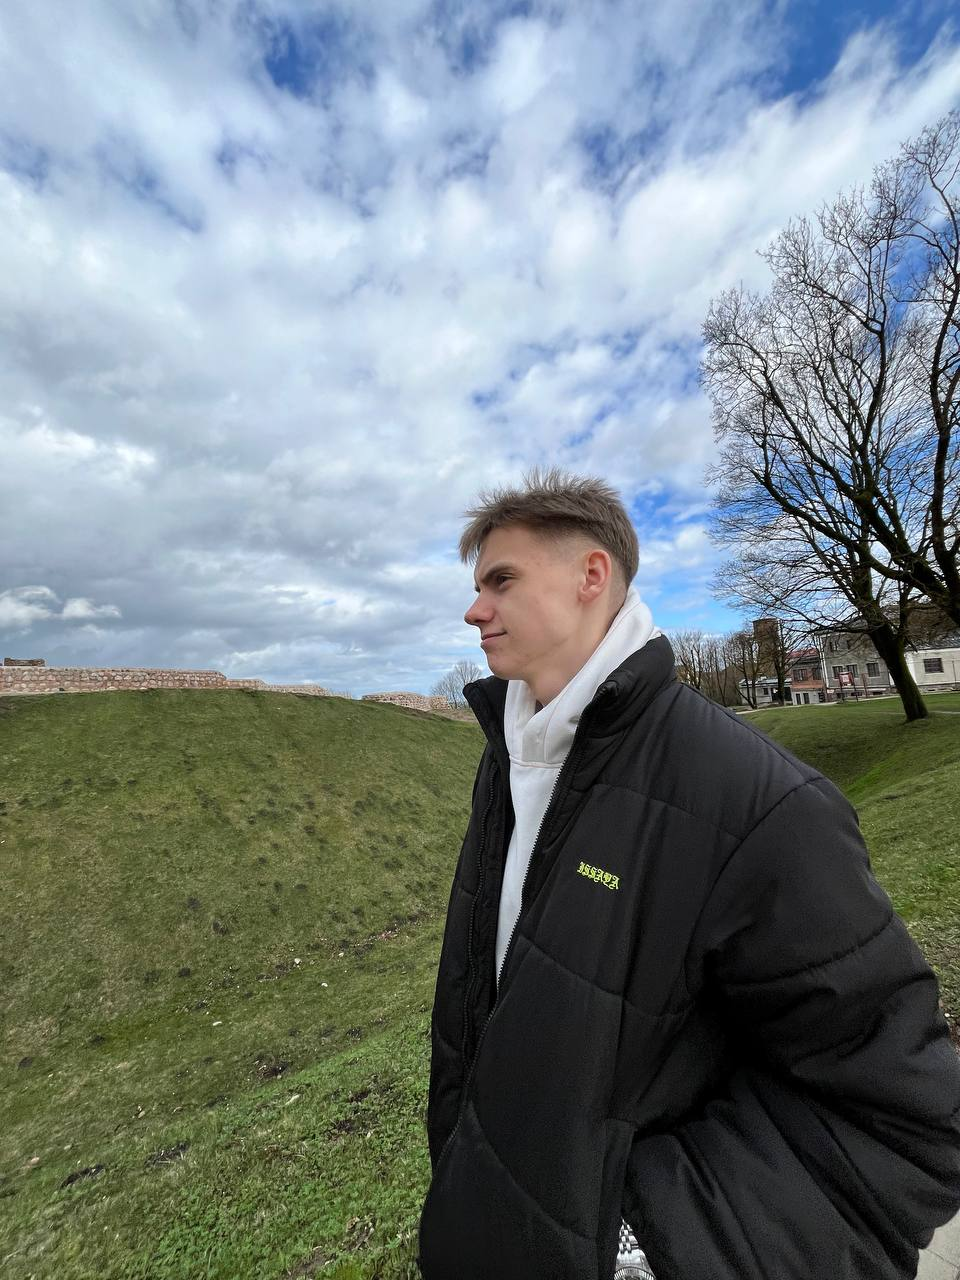
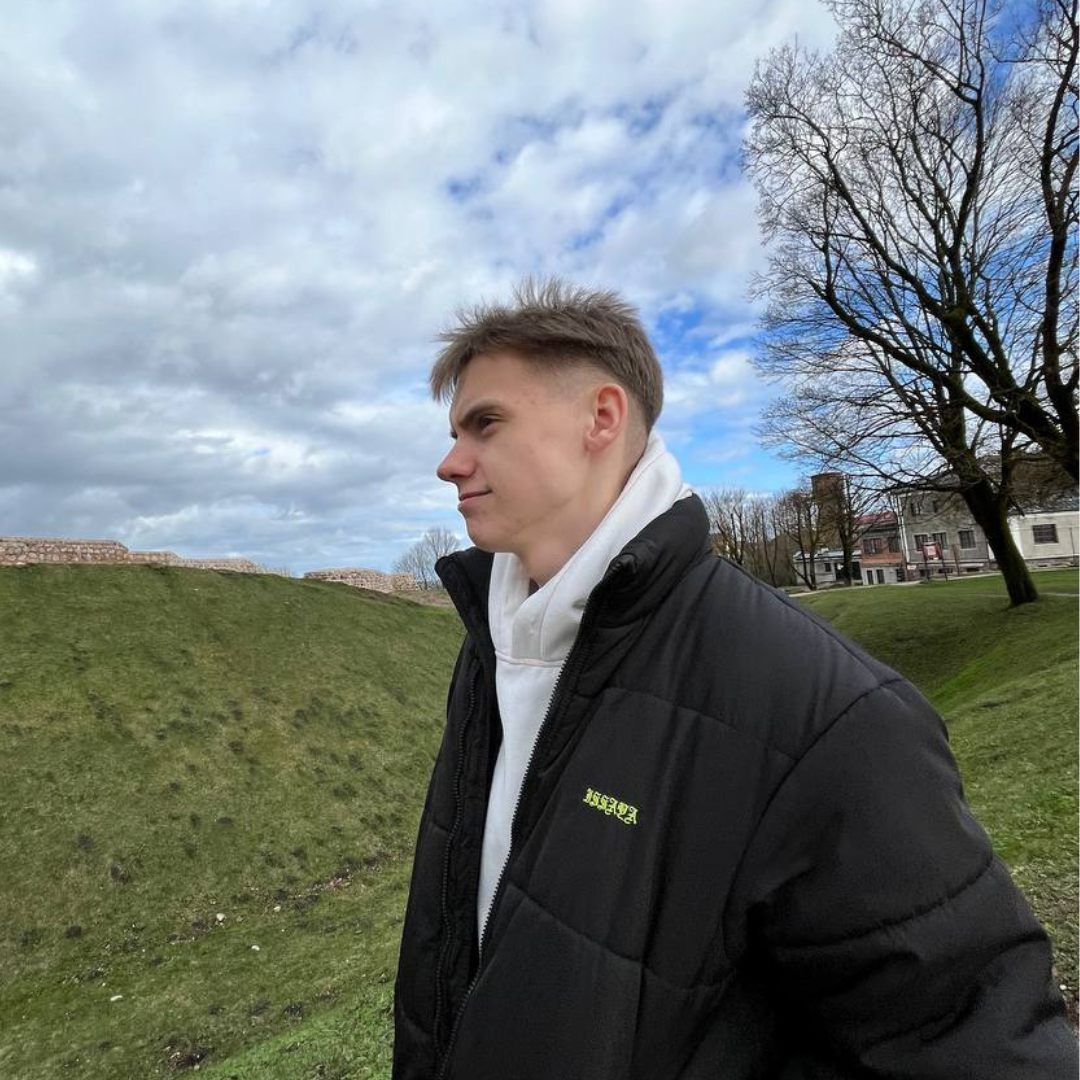
modify photo

diff --git a/index.html b/index.html
@@ -16,7 +16,7 @@
     <div class="container">
         <div class="left__side">
             <div class="profile">
-                <img class="profile__img" src="./assets/iam.PNG" width="200" height="200" alt="">
+                <img class="profile__img" src="./assets/iam.jpg" width="200" height="200" alt="">
                 <h2 class="profile__name">Danila Lisichkin</h2>
                 <p class="profile__position">Java backend developer</p>
             </div>
